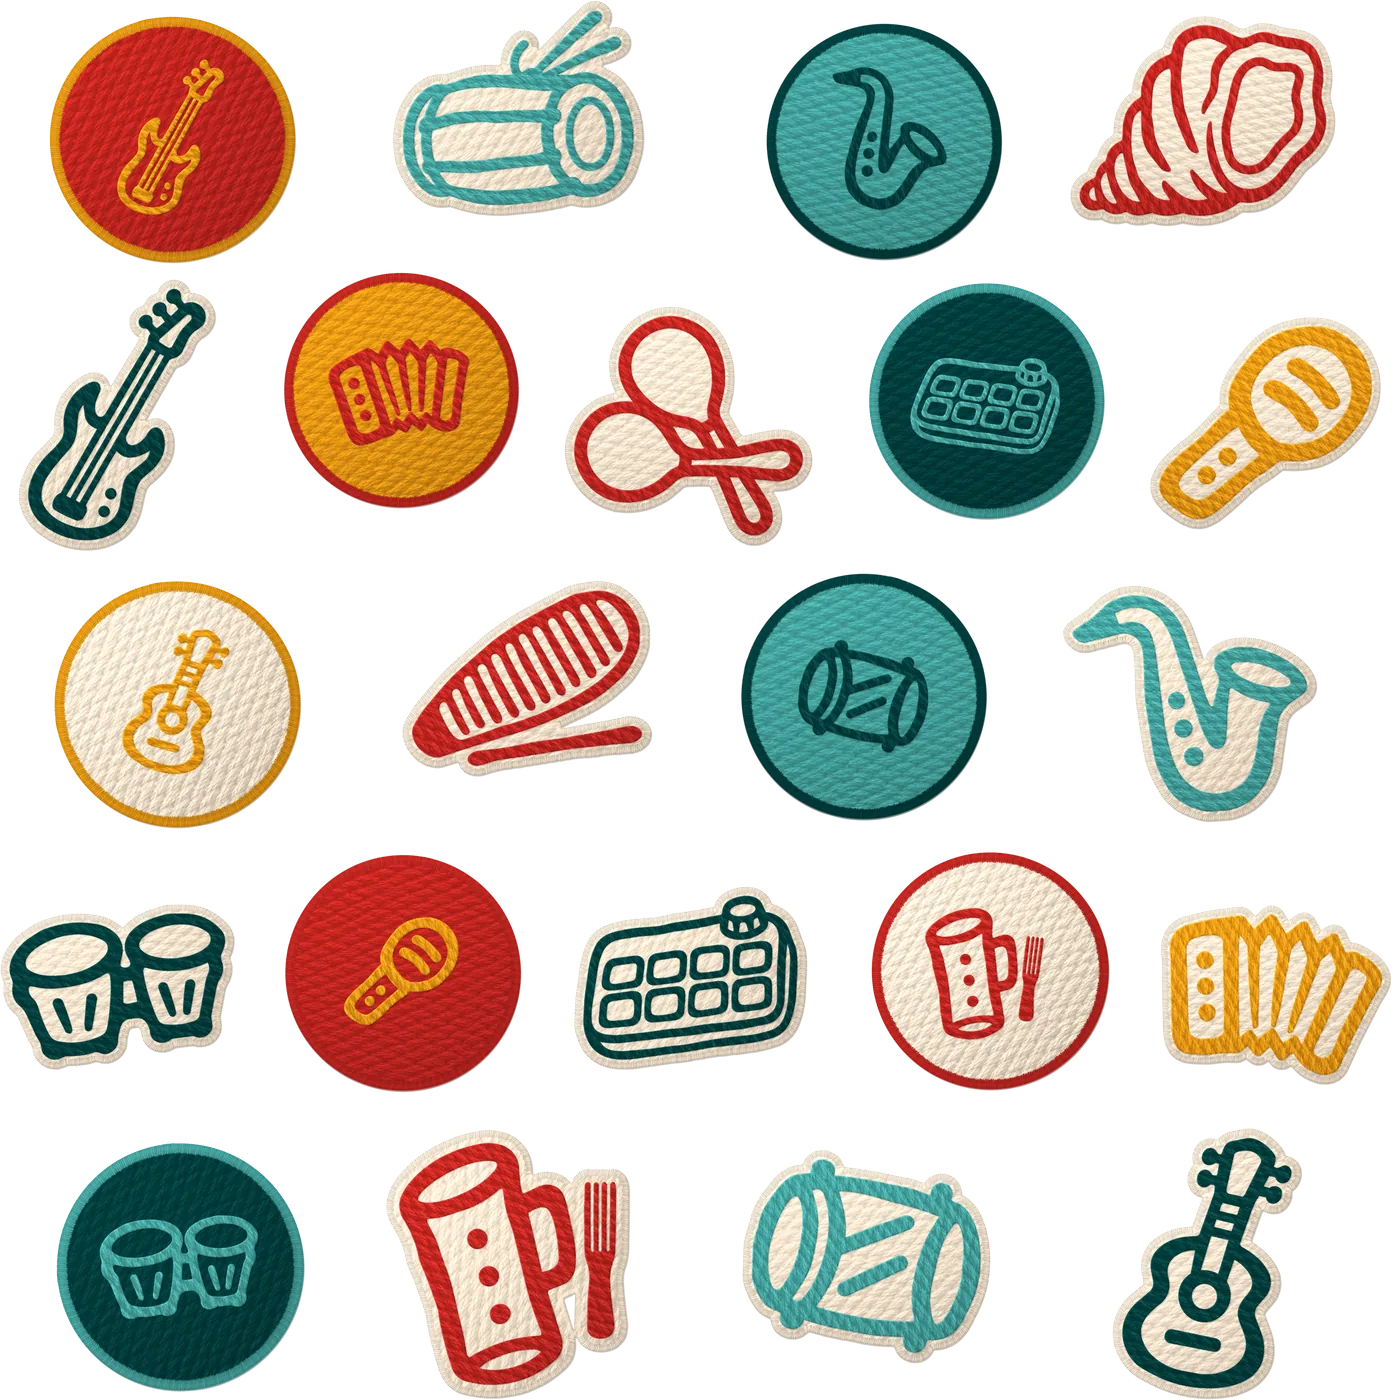
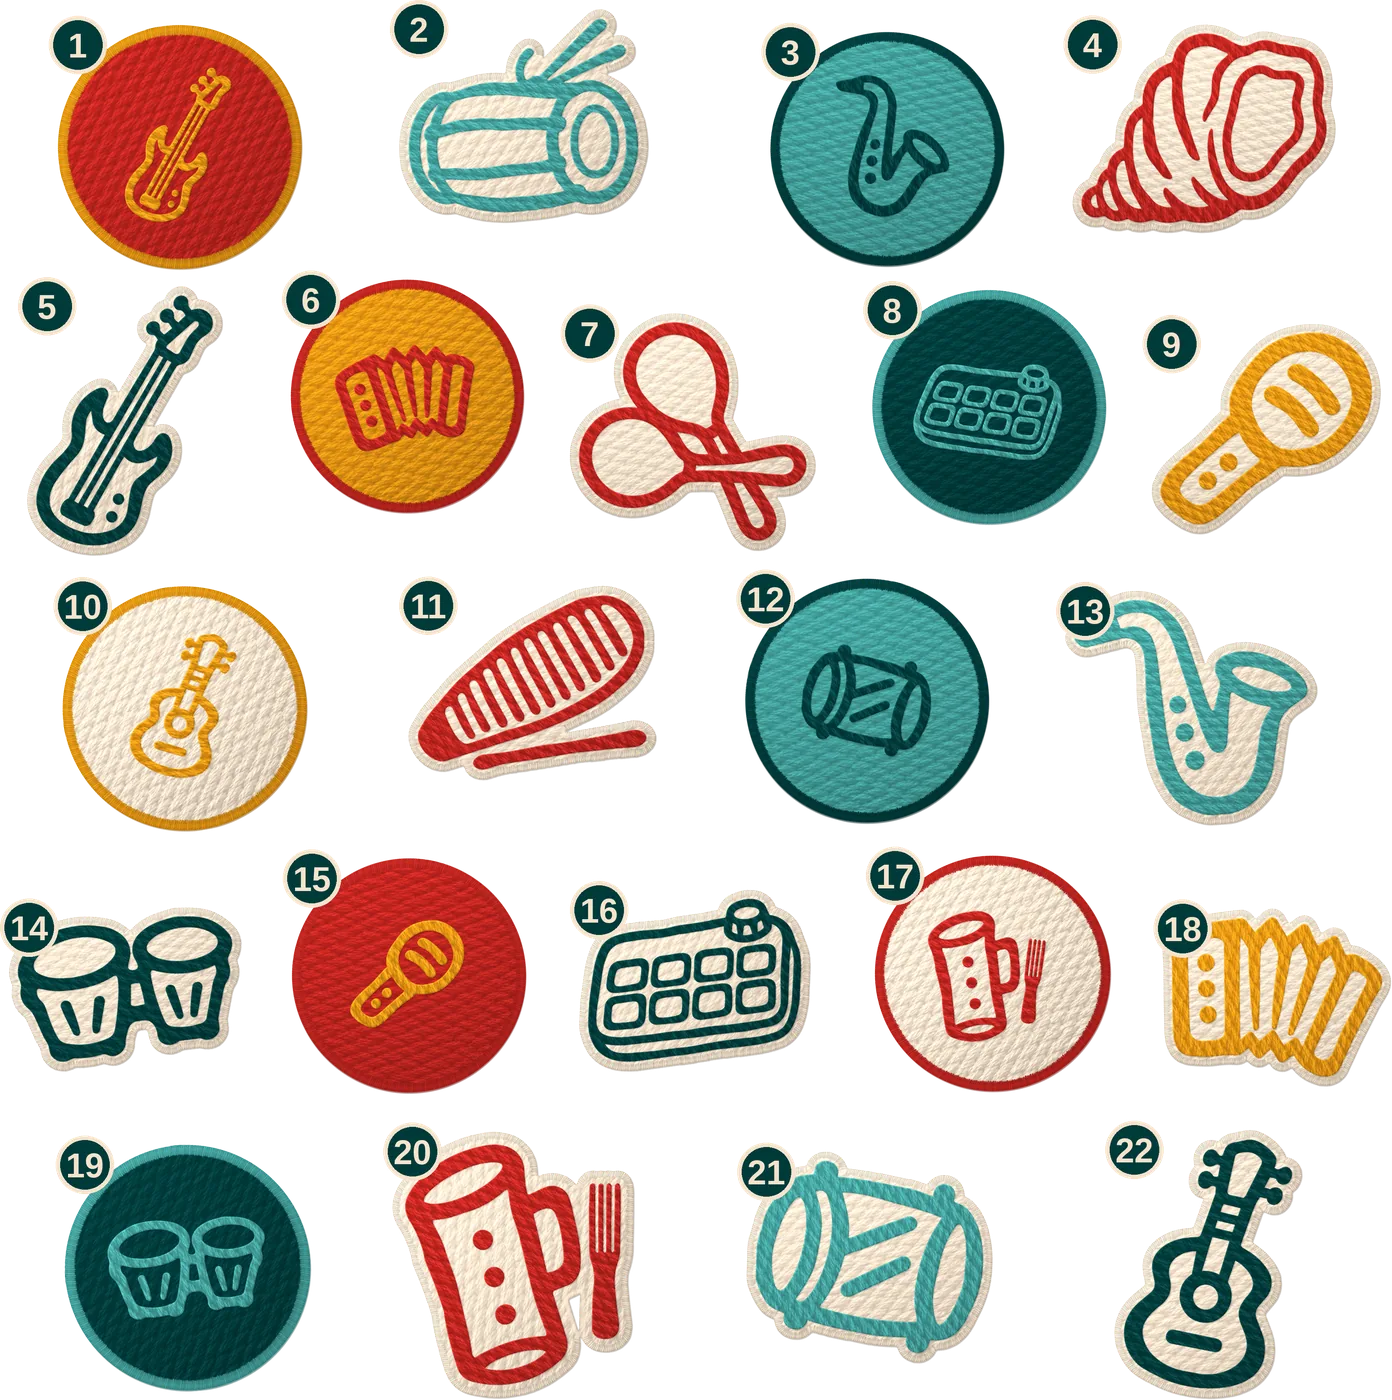
Pines y parches numerados: se elige el número al comprar
Claude-Session: https://claude.ai/code/session_01J6uxBc3poQkUXu2UGAUDWn

diff --git a/index.html b/index.html
@@ -483,6 +483,12 @@ a.card.pcard{display:grid;gap:8px;text-decoration:none;padding:12px 12px 18px;al
 .pimg img{position:absolute;inset:8%;width:84%;height:84%;object-fit:contain;transition:scale .25s cubic-bezier(.3,1.6,.5,1)}
 .pcard:hover .pimg img{scale:1.05}
 .pimg.big img{inset:6%;width:88%;height:88%}
+button.lnk[data-act=pnumAll]{background:none;border:0;padding:4px 0;font:inherit;font-weight:700;color:var(--verde);text-decoration:underline;text-underline-offset:4px;cursor:pointer;justify-self:start}
+.pimg .pnum{position:absolute;left:14px;top:14px;background:var(--verde);color:var(--crema);font-weight:800;border-radius:999px;padding:4px 12px}
+.numchips{display:grid!important;grid-template-columns:repeat(auto-fill,minmax(64px,1fr));gap:8px}
+.numchips .vchip span{display:grid;justify-items:center;gap:2px;padding:6px 4px}
+.numchips .vchip img{width:40px;height:40px;object-fit:contain}
+.numchips .vchip b{font-size:14px;line-height:1}
 .pthumbs{display:flex;gap:10px;flex-wrap:wrap}
 .pthumbs button{width:72px;height:72px;padding:6px;border-radius:16px;background:rgba(65,157,153,.14);border:2.5px solid transparent;cursor:pointer}
 .pthumbs button[aria-pressed=true]{border-color:var(--fg)}
@@ -1530,8 +1536,8 @@ const PRODUCTS=[
  {id:109,n:'Polo Tambora',cat:'Ropa',p:1200,d:'Polo de manga corta verde petróleo. Al frente, el logo y una tambora; en la espalda, el sol del festival.',img:'polo-tambora',v:{Talla:TALLAS},st:{},def:50},
  {id:110,n:'Tote Ilustraciones',cat:'Accesorios',p:750,d:'Tote bag crema con asas verdes y los instrumentos del festival ilustrados.',img:'tote-ilustraciones',v:{},st:{},def:50},
  {id:111,n:'Abanico Buena Música',cat:'Accesorios',p:400,d:'Abanico plegable con el logo y los instrumentos del festival.',img:'abanico',v:{},st:{},def:50},
- {id:112,n:'Pines de instrumentos',cat:'Recuerdos',p:150,d:'Pines con los instrumentos del festival. Precio por unidad.',img:'pines',v:{},st:{},def:50},
- {id:113,n:'Parches bordados',cat:'Recuerdos',p:250,d:'Parches bordados con los instrumentos del festival. Precio por unidad.',img:'parches',v:{},st:{},def:50}];
+ {id:112,n:'Pines de instrumentos',cat:'Recuerdos',p:150,d:'Pines con los instrumentos del festival. Precio por unidad: elige el número del pin que quieres. Para llevar varios, añádelos uno por uno.',img:'pines',v:{'Número':Array.from({length:22},(_,i)=>'N.º '+(i+1))},st:{},def:50},
+ {id:113,n:'Parches bordados',cat:'Recuerdos',p:250,d:'Parches bordados con los instrumentos del festival. Precio por unidad: elige el número del parche que quieres. Para llevar varios, añádelos uno por uno.',img:'parches',v:{'Número':Array.from({length:22},(_,i)=>'N.º '+(i+1))},st:{},def:50}];
 function pimgKey(p,color){return p.v.Color?p.img+'-'+COLIMG[color||p.v.Color[0]]:p.img}
 const RENDERS=['Render: escenario principal','Render: zona de stands','Render: área del público','Render: acceso y circulación','Render: vista aérea del recinto'];
 const ADM_APPS=[];
@@ -1641,7 +1647,8 @@ function qrArt(label){const n=25;let s=hsh(S.boleta?S.boleta.code:'ASBM');const 
 function posterArt(a,big){const q=typeof a.id==='number'?a.id:1;const t=['rojo','verde','naranja','agua'][((q-1)+Math.floor((q-1)/4)*2)%4];return `<span class="pst t-${t}${big?' big':''}" role="img" aria-label="Póster de ${esc(a.n)}, ${esc(a.g)}">${ic(GI[a.g]||'mic','pst-i')}<span class="pst-n">${a.n}</span><span class="pst-g">${a.g}</span></span>`}
 function coverArt(p,ratio,big){const t=['rojo','verde','agua'][hsh(p.t)%3];const art=p.cat==='artistas'?(GI[(ARTISTS.find(a=>p.href==='c03-'+a.id)||{}).g]||'mic'):CI[p.cat];
  return `<div class="art cov t-${t}${big?' cov-long':''}" style="aspect-ratio:${ratio||'16/10'};--rot:-10deg" role="img" aria-label="Portada: ${esc(p.t)}">${ic(art,'art-i')}</div>`}
-function prodArt(p,big,color){if(p.img){const k=pimgKey(p,color);return `<div class="pimg${big?' big':''}"><img src="${MERCH}${k}${big?'':'-card'}.webp" alt="${esc(p.n)}${p.v.Color?' · '+esc(color||p.v.Color[0]):''}" loading="${big?'eager':'lazy'}" decoding="async"></div>`}const t=['naranja','verde','agua','crema','verde','naranja'][(p.id-1)%6];return `<div class="art t-${t}" style="aspect-ratio:1/1;--rot:${p.id%2?-8:7}deg" role="img" aria-label="Ilustración de ${esc(p.n)}">${ic(PI[p.id]||'sol','art-i')}${big?`<span class="art-cap">Ilustración provisional · ${esc(p.n)}</span>`:''}</div>`}
+const numOf=o=>String(o).replace('N.º ','');
+function prodArt(p,big,sel){const color=sel&&typeof sel==='object'?sel.Color:sel;const num=big&&sel&&sel['Número'];if(p.img&&num){return `<div class="pimg big"><img src="${MERCH}${p.img}-${numOf(num).padStart(2,'0')}.webp" alt="${esc(p.n)} · ${esc(num)}"><span class="pnum">${esc(num)}</span></div><button type="button" class="lnk" data-act="pnumAll" data-arg="${p.id}">Ver todos los números</button>`}if(p.img){const k=pimgKey(p,color);return `<div class="pimg${big?' big':''}"><img src="${MERCH}${k}${big?'':'-card'}.webp" alt="${esc(p.n)}${p.v.Color?' · '+esc(color||p.v.Color[0]):''}" loading="${big?'eager':'lazy'}" decoding="async"></div>`}const t=['naranja','verde','agua','crema','verde','naranja'][(p.id-1)%6];return `<div class="art t-${t}" style="aspect-ratio:1/1;--rot:${p.id%2?-8:7}deg" role="img" aria-label="Ilustración de ${esc(p.n)}">${ic(PI[p.id]||'sol','art-i')}${big?`<span class="art-cap">Ilustración provisional · ${esc(p.n)}</span>`:''}</div>`}
 
 function stickers(list){return list.map(([cls,v,inner])=>`<div class="stk ${cls}" style="${v}">${inner}</div>`).join('')}
 const patI=(k,n)=>Array.from({length:n},()=>ic(k)).join('');
@@ -2230,10 +2237,10 @@ def('t02',{m:'Tienda',c:'T02',t:'Producto',f:'F14',route:'t02-101',n:['Galería 
  UI.sel=UI.sel||{};const sel=UI.sel[pr.id]=UI.sel[pr.id]||{};const keys=Object.keys(pr.v);const complete=keys.every(k=>sel[k]);const k=vkey(pr,sel);const stk=complete?stockOf(pr,k):null;
  const avail=soldOut(pr)?chip('Agotado','dash'):!complete?`<span class="tiny">Elige ${keys.map(x=>x.toLowerCase()).join(' y ')} para ver la disponibilidad.</span>`:stk===0?chip('Agotado en esta combinación','dash'):stk<=3?chip('Quedan '+stk):chip('Disponible');
  const addBtn=soldOut(pr)||(complete&&stk===0)?btn('Agotado',{dis:1,block:1})+btn('Avísame si vuelve · Fase 3',{dis:1,sm:1,block:1}):btn('Añadir al carrito',{act:'add',arg:pr.id,block:1});
- return `<div class="wrap">${crumbs([['t01','Tienda'],['',pr.n]])}<div class="split" style="padding-block:24px 72px"><div class="stack">${prodArt(pr,1,sel.Color)}${pr.v.Color?`<div class="pthumbs" role="group" aria-label="Colores">${pr.v.Color.map(c=>`<button type="button" data-act="pcolor" data-arg="${pr.id}|${c}" aria-pressed="${(sel.Color||pr.v.Color[0])===c}" aria-label="Ver en ${c}"><img src="${MERCH}${pimgKey(pr,c)}-card.webp" alt="" loading="lazy"></button>`).join('')}</div>`:''}</div>
+ return `<div class="wrap">${crumbs([['t01','Tienda'],['',pr.n]])}<div class="split" style="padding-block:24px 72px"><div class="stack">${prodArt(pr,1,sel)}${pr.v.Color?`<div class="pthumbs" role="group" aria-label="Colores">${pr.v.Color.map(c=>`<button type="button" data-act="pcolor" data-arg="${pr.id}|${c}" aria-pressed="${(sel.Color||pr.v.Color[0])===c}" aria-label="Ver en ${c}"><img src="${MERCH}${pimgKey(pr,c)}-card.webp" alt="" loading="lazy"></button>`).join('')}</div>`:''}</div>
  <div class="stack lg"><div class="stack sm"><p class="eyebrow">${pr.cat}</p><h1>${pr.n}</h1><p style="font-size:22px;font-weight:800" class="num">${money(pr.p)}</p></div><p class="muted">${pr.d}</p>
  ${UI.addErr?alertBox('err',UI.addErr):''}
- ${keys.map(key=>`<fieldset class="fld"><legend>${key}${sel[key]?': '+sel[key]:''}</legend><div class="vchips">${pr.v[key].map(o=>`<label class="vchip"><input type="radio" id="v-${pr.id}-${key}-${o.replace(/\s/g,'')}" name="${key}" value="${o}"${sel[key]===o?' checked':''} data-chg="sel" data-pid="${pr.id}"><span>${o}</span></label>`).join('')}</div></fieldset>`).join('')}
+ ${keys.map(key=>`<fieldset class="fld"><legend>${key}${sel[key]?': '+sel[key]:''}</legend><div class="vchips${key==='Número'?' numchips':''}">${pr.v[key].map(o=>`<label class="vchip"><input type="radio" id="v-${pr.id}-${key}-${o.replace(/[\s.º]/g,'')}" name="${key}" value="${o}"${sel[key]===o?' checked':''} data-chg="sel" data-pid="${pr.id}"><span>${key==='Número'?`<img src="${MERCH}${pr.img}-${numOf(o).padStart(2,'0')}.webp" alt="" loading="lazy"><b>${numOf(o)}</b>`:o}</span></label>`).join('')}</div></fieldset>`).join('')}
  ${keys.includes('Talla')?`<details class="acc"><summary>Guía de tallas</summary><div class="ans"><div class="tblw"><table class="tbl" style="min-width:0"><thead><tr><th>Talla</th><th>Pecho (cm)</th><th>Largo (cm)</th></tr></thead><tbody>${['S','M','L','XL'].map(t=>`<tr><td>${t}</td><td>Por definir</td><td>Por definir</td></tr>`).join('')}</tbody></table></div></div></details>`:''}
  <div>${avail}</div>
  <div class="fld"><label for="qty">Cantidad</label><div class="qty"><button type="button" data-act="qtyIn" data-arg="-1" aria-label="Restar uno">−</button><input id="qty" inputmode="numeric" value="${UI.qty||1}" aria-label="Cantidad"><button type="button" data-act="qtyIn" data-arg="1" aria-label="Sumar uno">+</button></div></div>
@@ -2589,6 +2596,7 @@ function go(r){if(location.hash==='#'+r)render();else location.hash=r}
 function loginAs(role,email,name){if(role==='equipo')role='asistente';S.role=role;S.email=email;S.name=name;if(role==='artista'&&profPct()<50){} const p=S.pending;S.pending=null;UI={};save();go(p||homeFor())}
 function nameFromEmail(e){const l=e.split('@')[0].replace(/[._-]+/g,' ').replace(/\b(artista|equipo)\b/g,'').trim();return (l?l.replace(/\b\w/g,c=>c.toUpperCase()):'Persona')}
 const ACT={
+  pnumAll(a){UI.sel=UI.sel||{};if(UI.sel[a])delete UI.sel[a]['Número'];render()},
   pcolor(a){const [id,c]=String(a).split('|');UI.sel=UI.sel||{};UI.sel[id]=UI.sel[id]||{};UI.sel[id].Color=c;UI.addErr=null;render()},
  menu(){UI.menu=!UI.menu;render()},
  gscroll(d){const g=document.querySelector('.gantt');if(g)g.scrollBy({left:(+d)*Math.max(240,g.clientWidth*.6),behavior:matchMedia('(prefers-reduced-motion: reduce)').matches?'auto':'smooth'})},

diff --git a/admin/index.html b/admin/index.html
@@ -482,6 +482,12 @@ a.card.pcard{display:grid;gap:8px;text-decoration:none;padding:12px 12px 18px;al
 .pimg img{position:absolute;inset:8%;width:84%;height:84%;object-fit:contain;transition:scale .25s cubic-bezier(.3,1.6,.5,1)}
 .pcard:hover .pimg img{scale:1.05}
 .pimg.big img{inset:6%;width:88%;height:88%}
+button.lnk[data-act=pnumAll]{background:none;border:0;padding:4px 0;font:inherit;font-weight:700;color:var(--verde);text-decoration:underline;text-underline-offset:4px;cursor:pointer;justify-self:start}
+.pimg .pnum{position:absolute;left:14px;top:14px;background:var(--verde);color:var(--crema);font-weight:800;border-radius:999px;padding:4px 12px}
+.numchips{display:grid!important;grid-template-columns:repeat(auto-fill,minmax(64px,1fr));gap:8px}
+.numchips .vchip span{display:grid;justify-items:center;gap:2px;padding:6px 4px}
+.numchips .vchip img{width:40px;height:40px;object-fit:contain}
+.numchips .vchip b{font-size:14px;line-height:1}
 .pthumbs{display:flex;gap:10px;flex-wrap:wrap}
 .pthumbs button{width:72px;height:72px;padding:6px;border-radius:16px;background:rgba(65,157,153,.14);border:2.5px solid transparent;cursor:pointer}
 .pthumbs button[aria-pressed=true]{border-color:var(--fg)}
@@ -1529,8 +1535,8 @@ const PRODUCTS=[
  {id:109,n:'Polo Tambora',cat:'Ropa',p:1200,d:'Polo de manga corta verde petróleo. Al frente, el logo y una tambora; en la espalda, el sol del festival.',img:'polo-tambora',v:{Talla:TALLAS},st:{},def:50},
  {id:110,n:'Tote Ilustraciones',cat:'Accesorios',p:750,d:'Tote bag crema con asas verdes y los instrumentos del festival ilustrados.',img:'tote-ilustraciones',v:{},st:{},def:50},
  {id:111,n:'Abanico Buena Música',cat:'Accesorios',p:400,d:'Abanico plegable con el logo y los instrumentos del festival.',img:'abanico',v:{},st:{},def:50},
- {id:112,n:'Pines de instrumentos',cat:'Recuerdos',p:150,d:'Pines con los instrumentos del festival. Precio por unidad.',img:'pines',v:{},st:{},def:50},
- {id:113,n:'Parches bordados',cat:'Recuerdos',p:250,d:'Parches bordados con los instrumentos del festival. Precio por unidad.',img:'parches',v:{},st:{},def:50}];
+ {id:112,n:'Pines de instrumentos',cat:'Recuerdos',p:150,d:'Pines con los instrumentos del festival. Precio por unidad: elige el número del pin que quieres. Para llevar varios, añádelos uno por uno.',img:'pines',v:{'Número':Array.from({length:22},(_,i)=>'N.º '+(i+1))},st:{},def:50},
+ {id:113,n:'Parches bordados',cat:'Recuerdos',p:250,d:'Parches bordados con los instrumentos del festival. Precio por unidad: elige el número del parche que quieres. Para llevar varios, añádelos uno por uno.',img:'parches',v:{'Número':Array.from({length:22},(_,i)=>'N.º '+(i+1))},st:{},def:50}];
 function pimgKey(p,color){return p.v.Color?p.img+'-'+COLIMG[color||p.v.Color[0]]:p.img}
 const RENDERS=['Render: escenario principal','Render: zona de stands','Render: área del público','Render: acceso y circulación','Render: vista aérea del recinto'];
 const ADM_APPS=[];
@@ -1639,7 +1645,8 @@ function qrArt(label){const n=25;let s=hsh(S.boleta?S.boleta.code:'ASBM');const 
 function posterArt(a,big){const q=typeof a.id==='number'?a.id:1;const t=['rojo','verde','naranja','agua'][((q-1)+Math.floor((q-1)/4)*2)%4];return `<span class="pst t-${t}${big?' big':''}" role="img" aria-label="Póster de ${esc(a.n)}, ${esc(a.g)}">${ic(GI[a.g]||'mic','pst-i')}<span class="pst-n">${a.n}</span><span class="pst-g">${a.g}</span></span>`}
 function coverArt(p,ratio,big){const t=['rojo','verde','agua'][hsh(p.t)%3];const art=p.cat==='artistas'?(GI[(ARTISTS.find(a=>p.href==='c03-'+a.id)||{}).g]||'mic'):CI[p.cat];
  return `<div class="art cov t-${t}${big?' cov-long':''}" style="aspect-ratio:${ratio||'16/10'};--rot:-10deg" role="img" aria-label="Portada: ${esc(p.t)}">${ic(art,'art-i')}</div>`}
-function prodArt(p,big,color){if(p.img){const k=pimgKey(p,color);return `<div class="pimg${big?' big':''}"><img src="${MERCH}${k}${big?'':'-card'}.webp" alt="${esc(p.n)}${p.v.Color?' · '+esc(color||p.v.Color[0]):''}" loading="${big?'eager':'lazy'}" decoding="async"></div>`}const t=['naranja','verde','agua','crema','verde','naranja'][(p.id-1)%6];return `<div class="art t-${t}" style="aspect-ratio:1/1;--rot:${p.id%2?-8:7}deg" role="img" aria-label="Ilustración de ${esc(p.n)}">${ic(PI[p.id]||'sol','art-i')}${big?`<span class="art-cap">Ilustración provisional · ${esc(p.n)}</span>`:''}</div>`}
+const numOf=o=>String(o).replace('N.º ','');
+function prodArt(p,big,sel){const color=sel&&typeof sel==='object'?sel.Color:sel;const num=big&&sel&&sel['Número'];if(p.img&&num){return `<div class="pimg big"><img src="${MERCH}${p.img}-${numOf(num).padStart(2,'0')}.webp" alt="${esc(p.n)} · ${esc(num)}"><span class="pnum">${esc(num)}</span></div><button type="button" class="lnk" data-act="pnumAll" data-arg="${p.id}">Ver todos los números</button>`}if(p.img){const k=pimgKey(p,color);return `<div class="pimg${big?' big':''}"><img src="${MERCH}${k}${big?'':'-card'}.webp" alt="${esc(p.n)}${p.v.Color?' · '+esc(color||p.v.Color[0]):''}" loading="${big?'eager':'lazy'}" decoding="async"></div>`}const t=['naranja','verde','agua','crema','verde','naranja'][(p.id-1)%6];return `<div class="art t-${t}" style="aspect-ratio:1/1;--rot:${p.id%2?-8:7}deg" role="img" aria-label="Ilustración de ${esc(p.n)}">${ic(PI[p.id]||'sol','art-i')}${big?`<span class="art-cap">Ilustración provisional · ${esc(p.n)}</span>`:''}</div>`}
 
 function stickers(list){return list.map(([cls,v,inner])=>`<div class="stk ${cls}" style="${v}">${inner}</div>`).join('')}
 const patI=(k,n)=>Array.from({length:n},()=>ic(k)).join('');
@@ -2228,10 +2235,10 @@ def('t02',{m:'Tienda',c:'T02',t:'Producto',f:'F14',route:'t02-101',n:['Galería 
  UI.sel=UI.sel||{};const sel=UI.sel[pr.id]=UI.sel[pr.id]||{};const keys=Object.keys(pr.v);const complete=keys.every(k=>sel[k]);const k=vkey(pr,sel);const stk=complete?stockOf(pr,k):null;
  const avail=soldOut(pr)?chip('Agotado','dash'):!complete?`<span class="tiny">Elige ${keys.map(x=>x.toLowerCase()).join(' y ')} para ver la disponibilidad.</span>`:stk===0?chip('Agotado en esta combinación','dash'):stk<=3?chip('Quedan '+stk):chip('Disponible');
  const addBtn=soldOut(pr)||(complete&&stk===0)?btn('Agotado',{dis:1,block:1})+btn('Avísame si vuelve · Fase 3',{dis:1,sm:1,block:1}):btn('Añadir al carrito',{act:'add',arg:pr.id,block:1});
- return `<div class="wrap">${crumbs([['t01','Tienda'],['',pr.n]])}<div class="split" style="padding-block:24px 72px"><div class="stack">${prodArt(pr,1,sel.Color)}${pr.v.Color?`<div class="pthumbs" role="group" aria-label="Colores">${pr.v.Color.map(c=>`<button type="button" data-act="pcolor" data-arg="${pr.id}|${c}" aria-pressed="${(sel.Color||pr.v.Color[0])===c}" aria-label="Ver en ${c}"><img src="${MERCH}${pimgKey(pr,c)}-card.webp" alt="" loading="lazy"></button>`).join('')}</div>`:''}</div>
+ return `<div class="wrap">${crumbs([['t01','Tienda'],['',pr.n]])}<div class="split" style="padding-block:24px 72px"><div class="stack">${prodArt(pr,1,sel)}${pr.v.Color?`<div class="pthumbs" role="group" aria-label="Colores">${pr.v.Color.map(c=>`<button type="button" data-act="pcolor" data-arg="${pr.id}|${c}" aria-pressed="${(sel.Color||pr.v.Color[0])===c}" aria-label="Ver en ${c}"><img src="${MERCH}${pimgKey(pr,c)}-card.webp" alt="" loading="lazy"></button>`).join('')}</div>`:''}</div>
  <div class="stack lg"><div class="stack sm"><p class="eyebrow">${pr.cat}</p><h1>${pr.n}</h1><p style="font-size:22px;font-weight:800" class="num">${money(pr.p)}</p></div><p class="muted">${pr.d}</p>
  ${UI.addErr?alertBox('err',UI.addErr):''}
- ${keys.map(key=>`<fieldset class="fld"><legend>${key}${sel[key]?': '+sel[key]:''}</legend><div class="vchips">${pr.v[key].map(o=>`<label class="vchip"><input type="radio" id="v-${pr.id}-${key}-${o.replace(/\s/g,'')}" name="${key}" value="${o}"${sel[key]===o?' checked':''} data-chg="sel" data-pid="${pr.id}"><span>${o}</span></label>`).join('')}</div></fieldset>`).join('')}
+ ${keys.map(key=>`<fieldset class="fld"><legend>${key}${sel[key]?': '+sel[key]:''}</legend><div class="vchips${key==='Número'?' numchips':''}">${pr.v[key].map(o=>`<label class="vchip"><input type="radio" id="v-${pr.id}-${key}-${o.replace(/[\s.º]/g,'')}" name="${key}" value="${o}"${sel[key]===o?' checked':''} data-chg="sel" data-pid="${pr.id}"><span>${key==='Número'?`<img src="${MERCH}${pr.img}-${numOf(o).padStart(2,'0')}.webp" alt="" loading="lazy"><b>${numOf(o)}</b>`:o}</span></label>`).join('')}</div></fieldset>`).join('')}
  ${keys.includes('Talla')?`<details class="acc"><summary>Guía de tallas</summary><div class="ans"><div class="tblw"><table class="tbl" style="min-width:0"><thead><tr><th>Talla</th><th>Pecho (cm)</th><th>Largo (cm)</th></tr></thead><tbody>${['S','M','L','XL'].map(t=>`<tr><td>${t}</td><td>Por definir</td><td>Por definir</td></tr>`).join('')}</tbody></table></div></div></details>`:''}
  <div>${avail}</div>
  <div class="fld"><label for="qty">Cantidad</label><div class="qty"><button type="button" data-act="qtyIn" data-arg="-1" aria-label="Restar uno">−</button><input id="qty" inputmode="numeric" value="${UI.qty||1}" aria-label="Cantidad"><button type="button" data-act="qtyIn" data-arg="1" aria-label="Sumar uno">+</button></div></div>
@@ -2587,6 +2594,7 @@ function go(r){if(location.hash==='#'+r)render();else location.hash=r}
 function loginAs(role,email,name){S.role=role;S.email=email;S.name=name;if(role==='artista'&&profPct()<50){} const p=S.pending;S.pending=null;UI={};save();go(p||homeFor())}
 function nameFromEmail(e){const l=e.split('@')[0].replace(/[._-]+/g,' ').replace(/\b(artista|equipo)\b/g,'').trim();return (l?l.replace(/\b\w/g,c=>c.toUpperCase()):'Persona')}
 const ACT={
+  pnumAll(a){UI.sel=UI.sel||{};if(UI.sel[a])delete UI.sel[a]['Número'];render()},
   pcolor(a){const [id,c]=String(a).split('|');UI.sel=UI.sel||{};UI.sel[id]=UI.sel[id]||{};UI.sel[id].Color=c;UI.addErr=null;render()},
  menu(){UI.menu=!UI.menu;render()},
  gscroll(d){const g=document.querySelector('.gantt');if(g)g.scrollBy({left:(+d)*Math.max(240,g.clientWidth*.6),behavior:matchMedia('(prefers-reduced-motion: reduce)').matches?'auto':'smooth'})},
